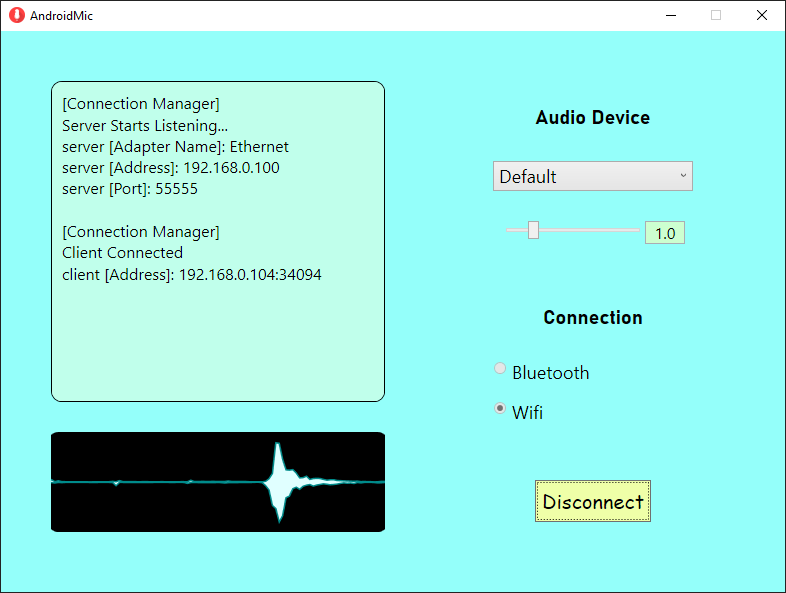
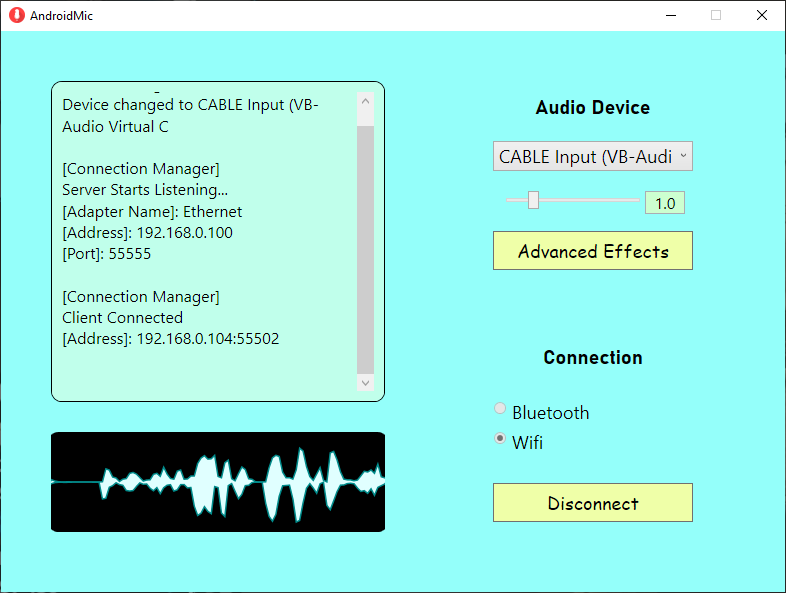
release 1.7.0

diff --git a/Android/app/src/main/java/com/example/microphone/streaming/BluetoothStreamer.kt b/Android/app/src/main/java/com/example/microphone/streaming/BluetoothStreamer.kt
@@ -1,15 +1,13 @@
 package com.example.microphone.streaming
 
 import android.Manifest
-import android.bluetooth.BluetoothAdapter
-import android.bluetooth.BluetoothClass
-import android.bluetooth.BluetoothDevice
-import android.bluetooth.BluetoothSocket
+import android.bluetooth.*
 import android.content.BroadcastReceiver
 import android.content.Context
 import android.content.Intent
 import android.content.IntentFilter
 import android.content.pm.PackageManager
+import android.os.Build
 import android.util.Log
 import androidx.core.content.ContextCompat
 import com.example.microphone.audio.AudioBuffer
@@ -26,7 +24,7 @@ class BluetoothStreamer(private val ctx : Context) : Streamer {
     private val myUUID : UUID = UUID.fromString("34335e34-bccf-11eb-8529-0242ac130003")
     private val MAX_WAIT_TIME = 1500L // timeout
 
-    private val adapter : BluetoothAdapter? = BluetoothAdapter.getDefaultAdapter()
+    private val adapter : BluetoothAdapter
     private var target : BluetoothDevice? = null
     private var socket : BluetoothSocket? = null
 
@@ -51,11 +49,19 @@ class BluetoothStreamer(private val ctx : Context) : Streamer {
     // init everything
     init
     {
+        // get bluetooth adapter
+        val bm = ctx.getSystemService(Context.BLUETOOTH_SERVICE) as BluetoothManager
+        adapter = bm.adapter
         // check bluetooth adapter
         require(adapter != null) {"Bluetooth adapter is not found"}
         // check permission
         require(ContextCompat.checkSelfPermission(ctx, Manifest.permission.BLUETOOTH) == PackageManager.PERMISSION_GRANTED){
             "Bluetooth is not permitted"
+        }
+        if (Build.VERSION.SDK_INT >= Build.VERSION_CODES.S) {
+            require(ContextCompat.checkSelfPermission(ctx, Manifest.permission.BLUETOOTH_CONNECT) == PackageManager.PERMISSION_GRANTED){
+                "Bluetooth is not permitted"
+            }
         }
         require(adapter.isEnabled){"Bluetooth adapter is not enabled"}
         // set target device
@@ -77,11 +83,19 @@ class BluetoothStreamer(private val ctx : Context) : Streamer {
         } catch (e : IOException) {
             Log.d(TAG, "connect [createInsecureRfcommSocketToServiceRecord]: ${e.message}")
             null
+        } catch (e : SecurityException)
+        {
+            Log.d(TAG, "connect [createInsecureRfcommSocketToServiceRecord]: ${e.message}")
+            null
         } ?: return false
         // connect to server
         try {
             socket?.connect()
         } catch (e : IOException){
+            Log.d(TAG, "connect [connect]: ${e.message}")
+            return false
+        } catch (e : SecurityException)
+        {
             Log.d(TAG, "connect [connect]: ${e.message}")
             return false
         }
@@ -136,22 +150,28 @@ class BluetoothStreamer(private val ctx : Context) : Streamer {
     private fun selectTargetDevice()
     {
         target = null
-        val pairedDevices = adapter?.bondedDevices ?: return
-        for(device in pairedDevices)
-        {
-            if(device.bluetoothClass.majorDeviceClass == BluetoothClass.Device.Major.COMPUTER)
+        try {
+            val pairedDevices = adapter.bondedDevices ?: return
+            for(device in pairedDevices)
             {
-                Log.d(TAG, "selectTargetDevice: testing ${device.name}")
-                if(testConnection(device))
+                if(device.bluetoothClass.majorDeviceClass == BluetoothClass.Device.Major.COMPUTER)
                 {
-                    target = device
-                    Log.d(TAG, "selectTargetDevice: ${device.name} is valid")
-                    break
+                    Log.d(TAG, "selectTargetDevice: testing ${device.name}")
+                    if(testConnection(device))
+                    {
+                        target = device
+                        Log.d(TAG, "selectTargetDevice: ${device.name} is valid")
+                        break
+                    }
+                    else
+                        Log.d(TAG, "selectTargetDevice: ${device.name} is invalid")
                 }
-                else
-                    Log.d(TAG, "selectTargetDevice: ${device.name} is invalid")
             }
+        } catch(e : SecurityException)
+        {
+            Log.d(TAG, "selectTargetDevice: ${e.message}")
         }
+
     }
 
     // test connection with a device
@@ -165,11 +185,19 @@ class BluetoothStreamer(private val ctx : Context) : Streamer {
         } catch (e : IOException) {
             Log.d(TAG, "testConnection [createInsecureRfcommSocketToServiceRecord]: ${e.message}")
             null
+        } catch (e : SecurityException)
+        {
+            Log.d(TAG, "testConnection [createInsecureRfcommSocketToServiceRecord]: ${e.message}")
+            null
         } ?: return false
         // try to connect
         try {
             socket.connect()
         } catch (e : IOException){
+            Log.d(TAG, "testConnection [connect]: ${e.message}")
+            return false
+        } catch (e : SecurityException)
+        {
             Log.d(TAG, "testConnection [connect]: ${e.message}")
             return false
         }
@@ -215,8 +243,15 @@ class BluetoothStreamer(private val ctx : Context) : Streamer {
     // get connected device information
     override fun getInfo() : String
     {
-        if(adapter == null || target == null || socket == null) return ""
-        return "[Device Name] ${target?.name}\n[Device Address] ${target?.address}"
+        if(target == null || socket == null) return ""
+        val deviceName = try {
+            target?.name
+        } catch (e : SecurityException)
+        {
+            Log.d(TAG, "getInfo: ${e.message}")
+            "null"
+        }
+        return "[Device Name] ${deviceName}\n[Device Address] ${target?.address}"
     }
 
     // return true if is connected for streaming

diff --git a/Android/app/src/main/java/com/example/microphone/audio/MicAudioManager.kt b/Android/app/src/main/java/com/example/microphone/audio/MicAudioManager.kt
@@ -4,7 +4,6 @@ import android.Manifest
 import android.content.Context
 import android.content.pm.PackageManager
 import android.media.AudioFormat
-import android.media.AudioManager
 import android.media.AudioRecord
 import android.media.MediaRecorder
 import android.util.Log
@@ -42,8 +41,6 @@ class MicAudioManager(ctx : Context) {
         require(ContextCompat.checkSelfPermission(ctx, Manifest.permission.RECORD_AUDIO) == PackageManager.PERMISSION_GRANTED){
             "Microphone recording is not permitted"
         }
-        // setup noise suppression
-        (ctx.getSystemService(Context.AUDIO_SERVICE) as AudioManager).setParameters("noise_suppression=auto")
         // init recorder
         recorder = AudioRecord(AUDIO_SOURCE, SAMPLE_RATE, CHANNEL_CONFIG, AUDIO_FORMAT, BUFFER_SIZE)
         require(recorder?.state == AudioRecord.STATE_INITIALIZED){"Microphone not init properly"}
@@ -53,7 +50,7 @@ class MicAudioManager(ctx : Context) {
     suspend fun record(audioBuffer : AudioBuffer)
     {
         // read number of shorts
-        val size = recorder?.read(buffer, 0, BUFFER_SIZE, AudioRecord.READ_BLOCKING) ?: return
+        val size = recorder?.read(buffer, 0, BUFFER_SIZE) ?: return
         if(size <= 0)
         {
             delay(RECORD_DELAY)

diff --git a/Android/app/src/main/java/com/example/microphone/MainActivity.kt b/Android/app/src/main/java/com/example/microphone/MainActivity.kt
@@ -91,6 +91,12 @@ class MainActivity : AppCompatActivity()
         // check for audio permission
         if(ContextCompat.checkSelfPermission(this, Manifest.permission.RECORD_AUDIO) != PackageManager.PERMISSION_GRANTED)
             ActivityCompat.requestPermissions(this, arrayOf(Manifest.permission.RECORD_AUDIO), 0)
+        if(ContextCompat.checkSelfPermission(this, Manifest.permission.BLUETOOTH) != PackageManager.PERMISSION_GRANTED)
+            ActivityCompat.requestPermissions(this, arrayOf(Manifest.permission.BLUETOOTH), 0)
+        if (Build.VERSION.SDK_INT >= Build.VERSION_CODES.S) {
+            if(ContextCompat.checkSelfPermission(this, Manifest.permission.BLUETOOTH_CONNECT) != PackageManager.PERMISSION_GRANTED)
+                ActivityCompat.requestPermissions(this, arrayOf(Manifest.permission.BLUETOOTH_CONNECT), 0)
+        }
         // start handler thread
         handlerThread = HandlerThread("MicActivityStart", Process.THREAD_PRIORITY_BACKGROUND)
         handlerThread.start()

diff --git a/Windows/AndroidMic/AdvancedWindow.xaml b/Windows/AndroidMic/AdvancedWindow.xaml
@@ -66,7 +66,7 @@
         <CheckBox Content="Noise Cancellation" VerticalContentAlignment="Center" x:Name="NoiseCancelEnableCheckbox"
                   FontSize="20" FontFamily="Comic Sans MS" VerticalAlignment="Bottom" Width="300"
                   Checked="NoiseCancelEnableCheckbox_StateChanged" Unchecked="NoiseCancelEnableCheckbox_StateChanged" Margin="0,0,0,170"/>
-        <CheckBox Content="Automic Gain Control" VerticalContentAlignment="Center" x:Name="AutomicGainEnableCheckbox"
+        <CheckBox Content="Automatic Gain Control" VerticalContentAlignment="Center" x:Name="AutomicGainEnableCheckbox"
                   FontSize="20" FontFamily="Comic Sans MS" VerticalAlignment="Bottom" Width="300"
                   Checked="AutomicGainEnableCheckbox_StateChanged" Unchecked="AutomicGainEnableCheckbox_StateChanged" Margin="0,0,0,130"/>
         <CheckBox Content="Voice Activity Detector" VerticalContentAlignment="Center" x:Name="VADEnableCheckbox"

diff --git a/Android/app/src/main/java/com/example/microphone/service/ForegroundService.kt b/Android/app/src/main/java/com/example/microphone/service/ForegroundService.kt
@@ -379,7 +379,7 @@ class ForegroundService : Service() {
             val onTap = Intent(ctx, MainActivity::class.java).apply {
                 addFlags(Intent.FLAG_ACTIVITY_SINGLE_TOP or Intent.FLAG_ACTIVITY_NEW_TASK or Intent.FLAG_ACTIVITY_BROUGHT_TO_FRONT)
             }
-            val pendingIntent = PendingIntent.getActivity(ctx, 0, onTap, 0)
+            val pendingIntent = PendingIntent.getActivity(ctx, 0, onTap, PendingIntent.FLAG_IMMUTABLE)
             val builder = NotificationCompat.Builder(ctx, "AndroidMic")
                 .setSmallIcon(R.drawable.icon)
                 .setContentTitle(getString(R.string.activity_name))

diff --git a/Android/app/src/main/java/com/example/microphone/audio/AudioBuffer.kt b/Android/app/src/main/java/com/example/microphone/audio/AudioBuffer.kt
@@ -6,7 +6,7 @@ import kotlinx.coroutines.sync.withLock
 class AudioBuffer
 {
     // set buffer size for latency
-    private val BUFFER_SIZE = 2
+    private val BUFFER_SIZE = 3
     // actual buffer of byte arrays (FIFO with queue)
     private val buffer = ArrayDeque<ByteArray>()
     // mutex for coroutines

diff --git a/Windows/AndroidMic/Library/Audio/Filters/FilterSpeexDSP.cs b/Windows/AndroidMic/Library/Audio/Filters/FilterSpeexDSP.cs
@@ -52,6 +52,7 @@ namespace AndroidMic.Audio
         private Ellipse indicator;
         private readonly Brush indicatorOn;
         private readonly Brush indicatorOff;
+        private bool indicatorInSpeech;
 
         private readonly IntPtr SpeexPreprocessState;
         private readonly IntPtr SpeexEchoState;
@@ -112,7 +113,7 @@ namespace AndroidMic.Audio
                     Buffer.BlockCopy(echoOutBuffer, 0, audioBuffer, 0, nextRead);
                 }
                 // process audio
-                InSpeech = SpeexPreprocess.speex_preprocess_run(SpeexPreprocessState, audioBuffer) == 1;
+                indicatorInSpeech = SpeexPreprocess.speex_preprocess_run(SpeexPreprocessState, audioBuffer) == 1;
                 // copy back
                 Buffer.BlockCopy(audioBuffer, 0, buffer, offset, nextRead);
                 // update samples to read
@@ -120,7 +121,7 @@ namespace AndroidMic.Audio
                 offset += nextRead;
             }
             // check if VAD enabled
-            InSpeech = InSpeech && EnabledVAD;
+            indicatorInSpeech = indicatorInSpeech && EnabledVAD;
             // update indicator
             Application.Current.Dispatcher.Invoke(new Action(() =>
             {
@@ -148,7 +149,7 @@ namespace AndroidMic.Audio
         private void UpdateIndicator()
         {
             if (indicator == null) return;
-            indicator.Fill = InSpeech ? indicatorOn : indicatorOff;
+            indicator.Fill = indicatorInSpeech ? indicatorOn : indicatorOff;
         }
 
         // start PC speaker capture
@@ -296,6 +297,15 @@ namespace AndroidMic.Audio
                         SpeexPreprocessState, SpeexPreprocess.SPEEX_PREPROCESS_SET_PROB_CONTINUE,
                         StateUpdate);
                 }
+                else
+                {
+                    indicatorInSpeech = false;
+                    // update indicator
+                    Application.Current.Dispatcher.Invoke(new Action(() =>
+                    {
+                        UpdateIndicator();
+                    }));
+                }
             }
         }
 
@@ -337,7 +347,5 @@ namespace AndroidMic.Audio
                 else StopCapture();
             }
         }
-
-        public bool InSpeech { get; private set; }
     }
 }

diff --git a/Windows/AndroidMic/Library/Audio/AudioBuffer.cs b/Windows/AndroidMic/Library/Audio/AudioBuffer.cs
@@ -4,7 +4,7 @@ namespace AndroidMic.Audio
 {
     public class AudioBuffer
     {
-        public const int MAX_BUFFER_SIZE = 2;
+        public const int MAX_BUFFER_SIZE = 3;
         private readonly Queue<byte[]> buffer = new Queue<byte[]>();
         private readonly object toLock = new object();
 

diff --git a/Windows/README.md b/Windows/README.md
@@ -38,14 +38,15 @@ Built with WPF
 
 I once thought TCP delays audio data transfer. So I went to look at RTSP as alternative. Turns out it uses TCP for control and UDP/TCP to transfer data. RTSP is mainly used to stream video (with audio) data. TCP is still fast enough for audio data. No stream control required in my app, so RTSP is not necessary. BTW, UDP transfer is not easy to implement without a sequential order manager.
 
-### Buffers
+### Latency  
 
-A lot of buffers used in one audio pass:  
-1. Android `AudioRecord` will first store audio data in a buffer  
-2. Then recorded data will be copied to `AudioBuffer` by audio manager, which will be read by stream manager  
-3. Stream manager reads and sends to Windows side. Windows stream manager receives and stores in `AudioBuffer`, which will be read by audio manager  
-4. Audio manager has a `BufferedWaveProvider` layer for `NAudio` player, which will also store cached audio data  
+By test, audio via bluetooth socket has much __higher latency__ than TCP socket through Wifi on my machine, even though the code is very similar.  
+VB Cable can be configured to minimum latency, but still slower than physical devices.  
+Android `AudioRecord` also has latency for recording. Can look into [Oboe](https://github.com/google/oboe) to replace `AudioRecord` to improve.  
 
-The size and implementation of these buffers affect the latency of audio transfer. Two `AudioBuffer`s can be configured. I set max number of buffers to `3`. (Can also try 2 but it may drop audio too frequently) For `NAudio` wave out player, I set desired latency to `50`, number of buffers to `3`. A combination of (50,2) will cause choppy audio.
 
-Assume Android `AudioRecord` has optimum performance. Audio format is `16000` sample rate, `16` bits (2 bytes) data, `1` channel, PCM. Expect to have 16000x2x1=`32000` bytes generated from Android app per second. Bluetooth is able to transfer at least 1Mbps. Wifi will be much faster (up to 2 Gbps). TCP header can be up to 60 bytes per packet. So sockets are not expected to cause delay.
+### SpeexDSP and Audio Processing  
+
+This projects integrates [SpeexDSP](https://gitlab.xiph.org/xiph/speexdsp) library to support echo cancellation, noise suppression, automatic gain control and voice activity detection. The library dll provided in this project is compiled locally from the [latest source code](https://gitlab.xiph.org/xiph/speexdsp/-/commit/68311d46785be76d2a186c75578d51108bff6dfb) for x86. Then I wrote a C# binding for the library to call the functions in header files.  
+It is tricky to configure SpeexDSP filter, especially for echo cancellation. I looked at a lot of open source projects to learn their parameters. I tweaked and tested those parameters to better fit my app. For echo cancellation, a player buffer is required, which should be the samples sent to the speaker. I use NAudio provider which calls WASAPI internally to record the PC soundcard output.  
+Alternative for audio processing is [WebRTC](https://webrtc.org/). It is huge library in comparison, so I didn't include it in the end.  

diff --git a/README.md b/README.md
@@ -29,7 +29,11 @@ Use your Android phone as a microphone to Windows PC
 6. For microphone, click `Properties` and set following:  
    <img src="Assets/sound_config5.png" width="300" alt="sound config5">
 
-On my machine, this setup has the lowest delay and best sound quality. VB is not optimized as hardware devices, so these configurations are important for audio.
+On my machine, this setup has the lowest delay and best sound quality.  
+Can further improve audio latency by opening `VBCABLE_ControlPanel.exe` (from downloaded folder of VB) and set `Max Latency` in Options to 2048 smp:  
+<img src="Assets/sound_config6.png" width="600" alt="sound config6">
+
+Do not set to 512 smp since that will cause most buffers lost. If 2048 has no sound or bad quality, consider a higher smp.
 
 </details>
 
@@ -106,7 +110,7 @@ __SpeexDSP Filters__:
 - [ ] Audio effect filters (Not yet released)  
   - [x] Pitch Shifter  
   - [x] Add White Noise  
-  - [x] Repeated Background Track  
+  - [x] Repeated Background Audio  
   - [x] SpeexDSP Noise Cancellation  
   - [x] SpeexDSP Automatic Gain Control  
   - [x] SpeexDSP Voice Activity Detection  
@@ -121,18 +125,18 @@ Check out [Avalonia](https://github.com/AvaloniaUI/Avalonia)! With this it may b
 
 Pre-built installers can be found [here](https://github.com/teamclouday/AndroidMic/releases)  
 
-
 ------
 
 ## Windows Side
 
-<img src="Assets/p1.png" width="500" alt="Windows Side">
+<p float="left">
+<img src="Assets/p1.png" width="510" alt="Windows Side">
+<img src="Assets/p4.png" width="250" alt="Windows Side">
+</p>
 
-## Android Side (Portrait)
+## Android Side
 
-<img src="Assets/p2.jpg" width="250" alt="Android Side">
-
-## Android Side (Landscape)
+<img src="Assets/p2.jpg" width="250" alt="Android Side">  
 
 <img src="Assets/p3.jpg" width="500" alt="Android Side">
 
